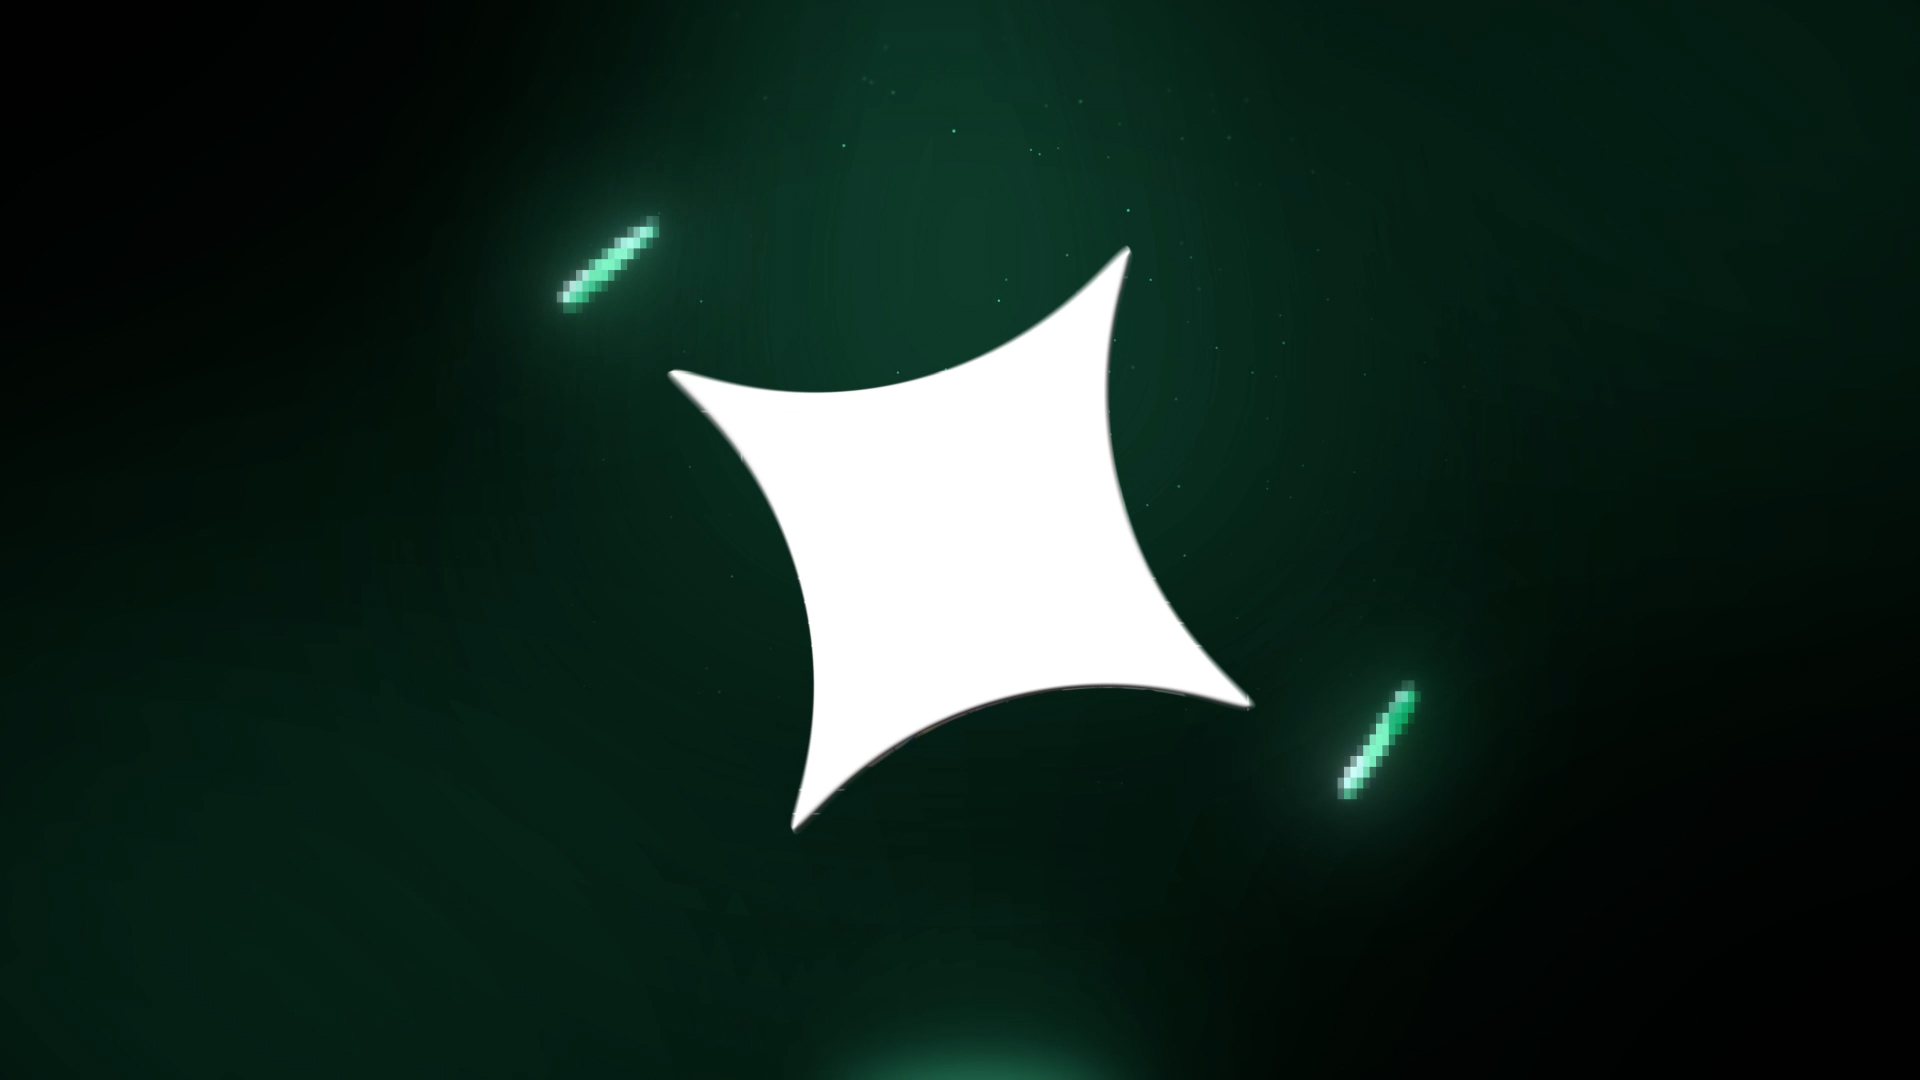
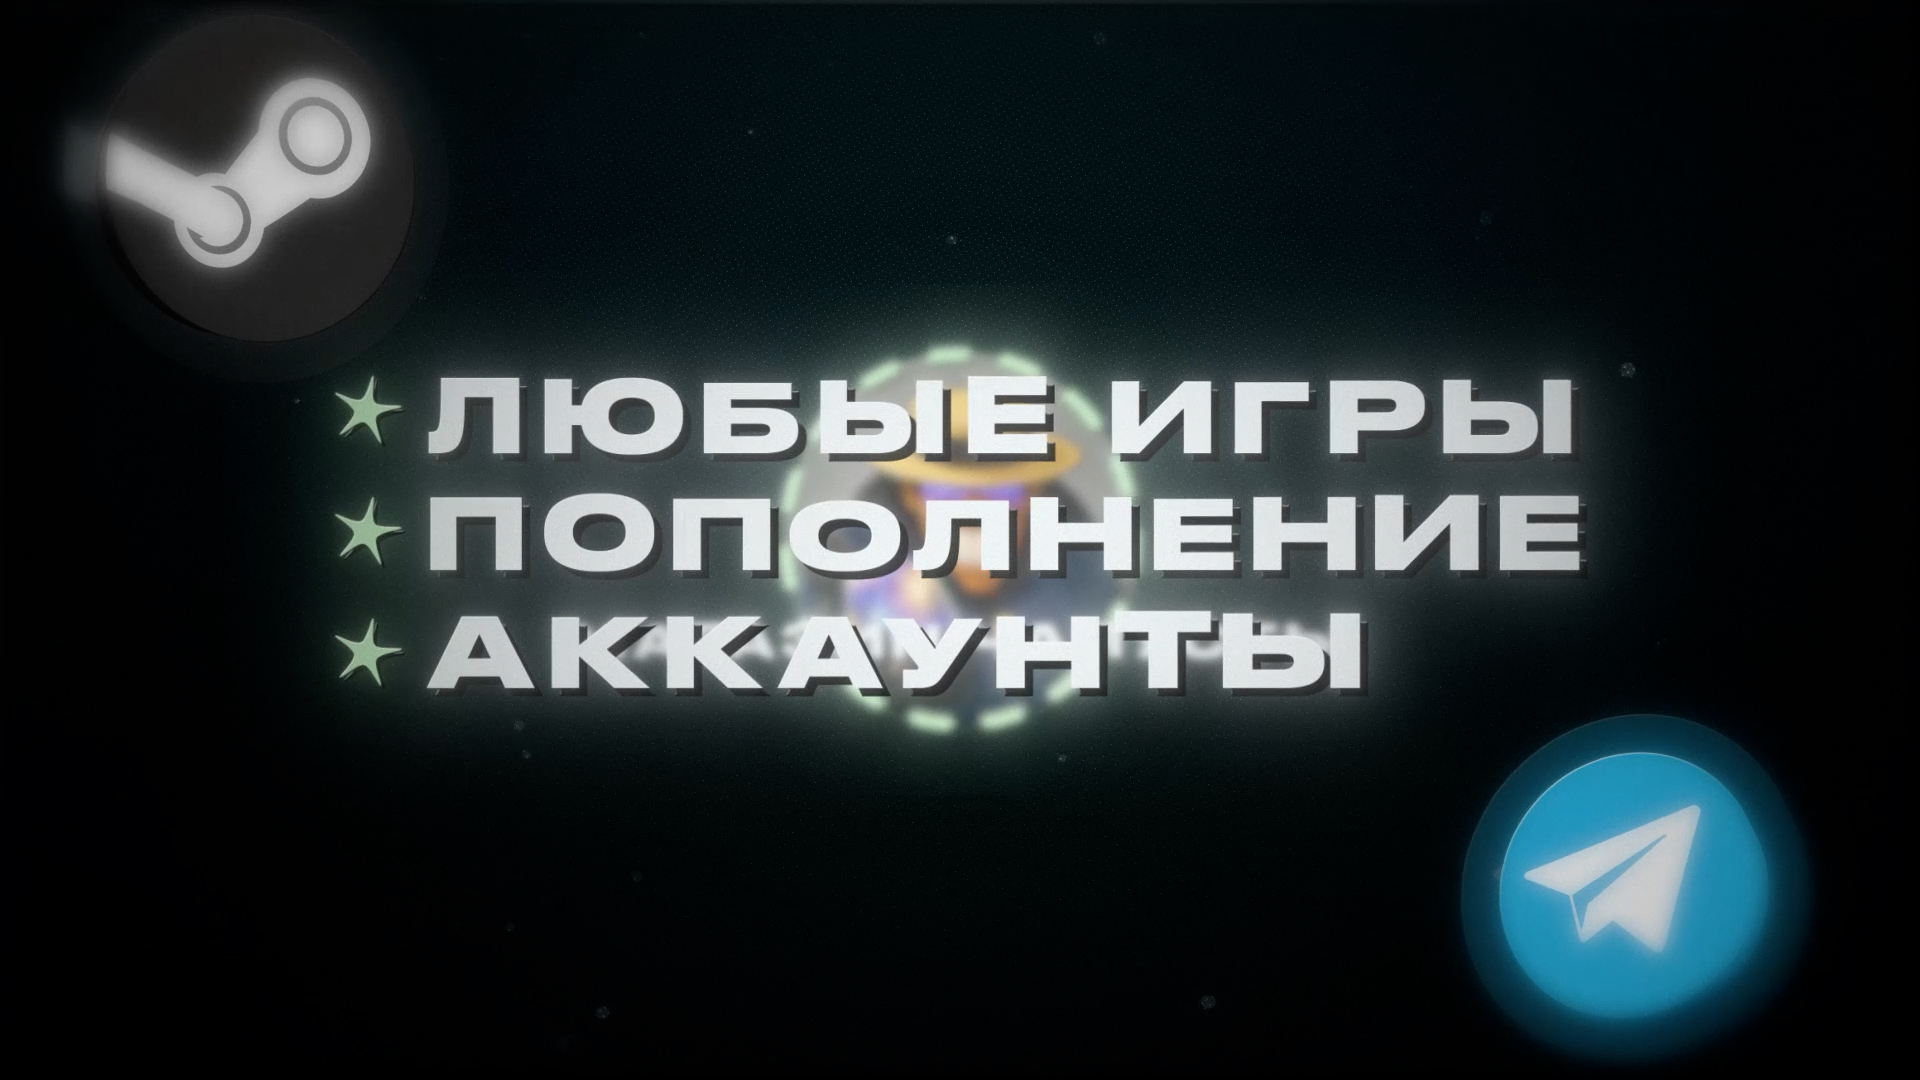
b

diff --git a/style.css b/style.css
@@ -1022,62 +1022,89 @@ label {
     }
 }
 /* =========================
-   CASES SIZE FIX +40%
+   MOBILE CASES — ONE COLUMN
 ========================= */
 
 @media (max-width: 768px) {
-    .vertical-cases-grid {
-        grid-template-columns: repeat(3, 130px);
-        gap: 12px;
+    .page-cases .page-scroll {
+        padding: 118px 18px 150px;
     }
 
+    .cases-container {
+        width: 100%;
+        max-width: 100%;
+    }
+
+    .cases-zone {
+        margin-bottom: 64px;
+    }
+
+    .cases-zone-top {
+        margin-bottom: 20px;
+    }
+
+    .cases-zone-title {
+        font-size: 20px;
+        line-height: 1;
+        letter-spacing: -0.04em;
+    }
+
+    .vertical-cases-grid,
     .horizontal-cases-grid {
-        grid-template-columns: repeat(2, 208px);
-        gap: 12px;
+        display: grid;
+        grid-template-columns: 1fr;
+        justify-items: center;
+        gap: 24px;
+    }
+
+    .vertical-cases-grid .case-card {
+        width: min(82vw, 340px);
+    }
+
+    .horizontal-cases-grid .case-card {
+        width: 100%;
+        max-width: 520px;
     }
 
     .case-card {
-        padding: 5px;
-        border-radius: 12px;
+        padding: 6px;
+        border-radius: 14px;
     }
 
     .case-preview,
     .case-youtube-frame {
-        border-radius: 8px;
+        width: 100%;
+        border-radius: 9px;
     }
 
     .case-play-button {
-        width: 56px;
-        height: 56px;
+        width: 58px;
+        height: 58px;
     }
 
     .case-play-button::before {
-        border-left-width: 13px;
+        border-left-width: 14px;
         border-top-width: 8px;
         border-bottom-width: 8px;
     }
 }
 
 @media (max-width: 480px) {
-    .vertical-cases-grid {
-        grid-template-columns: repeat(3, 120px);
-        gap: 10px;
+    .page-cases .page-scroll {
+        padding-left: 14px;
+        padding-right: 14px;
     }
 
+    .vertical-cases-grid .case-card {
+        width: min(86vw, 330px);
+    }
+
+    .horizontal-cases-grid .case-card {
+        width: 100%;
+    }
+
+    .vertical-cases-grid,
     .horizontal-cases-grid {
-        grid-template-columns: repeat(2, 194px);
-        gap: 10px;
-    }
-}
-
-@media (max-width: 360px) {
-    .vertical-cases-grid {
-        grid-template-columns: repeat(3, 102px);
-        gap: 8px;
-    }
-
-    .horizontal-cases-grid {
-        grid-template-columns: repeat(2, 158px);
-        gap: 8px;
+        gap: 20px;
     }
 }

diff --git a/index.html b/index.html
@@ -197,7 +197,7 @@
                             <button
                                 class="case-preview"
                                 type="button"
-                                data-video="https://www.youtube-nocookie.com/embed/zUAjQjTRF94"
+                                data-video="https://www.youtube-nocookie.com/embed/wWQxrIc9wo0"
                                 aria-label="Открыть горизонтальный ролик 1"
                             >
                                 <img src="Photos/preview4.jpg" alt="Превью горизонтального ролика 1">
@@ -210,7 +210,7 @@
                             <button
                                 class="case-preview"
                                 type="button"
-                                data-video="https://www.youtube-nocookie.com/embed/k13Yb0FkB9Y"
+                                data-video="https://www.youtube-nocookie.com/embed/wWQxrIc9wo0"
                                 aria-label="Открыть горизонтальный ролик 2"
                             >
                                 <img src="Photos/preview5.jpg" alt="Превью горизонтального ролика 2">
@@ -223,7 +223,7 @@
                             <button
                                 class="case-preview"
                                 type="button"
-                                data-video="https://www.youtube-nocookie.com/embed/wWQxrIc9wo0"
+                                data-video="https://www.youtube-nocookie.com/embed/k13Yb0FkB9Y"
                                 aria-label="Открыть горизонтальный ролик 3"
                             >
                                 <img src="Photos/preview6.jpg" alt="Превью горизонтального ролика 3">